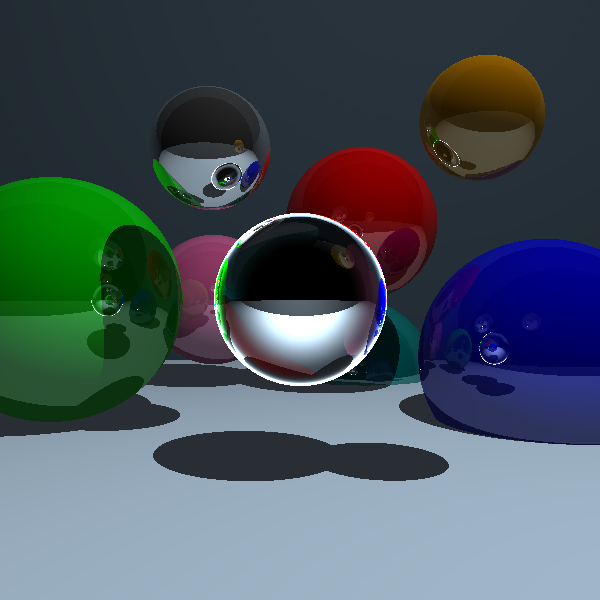
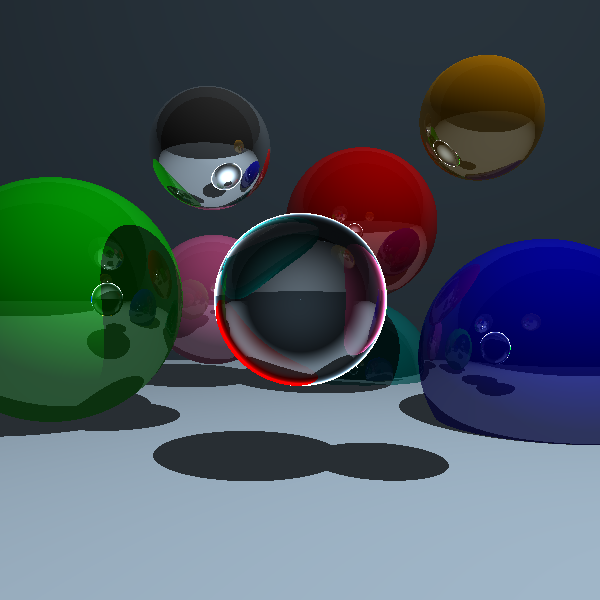
change image.

diff --git a/src/main/java/RayTracer.java b/src/main/java/RayTracer.java
@@ -253,8 +253,10 @@ public class RayTracer extends JPanel {
         localColor = closestShape.getColor().scale(computeLighting(closePoint, closeNormal, direction.scale(-1), closestShape.getSpecular()));
 
         if (closestShape.getTransparent()) {
-            reflective = reflectance(direction, closeNormal, rIndexAir, rIndex);
-            transparent = 1 - reflective;
+//            reflective = reflectance(direction, closeNormal, rIndexAir, rIndex);
+//            transparent = 1 - reflective;
+            transparent = reflectance(direction, closeNormal, rIndexAir, rIndex);
+            reflective = 1 - transparent;
         } else {
             reflective = closestShape.getReflective();
             transparent = 0;

diff --git a/README.md b/README.md
@@ -23,6 +23,7 @@ This is a simple ray tracer using the Phong lighting model developed to learn mo
 - Refraction
 
 ## Planned Features
+- Change shadows under transparent objects
 - Implementation of fresnel equations
 - Other shapes
 - Parallelization
